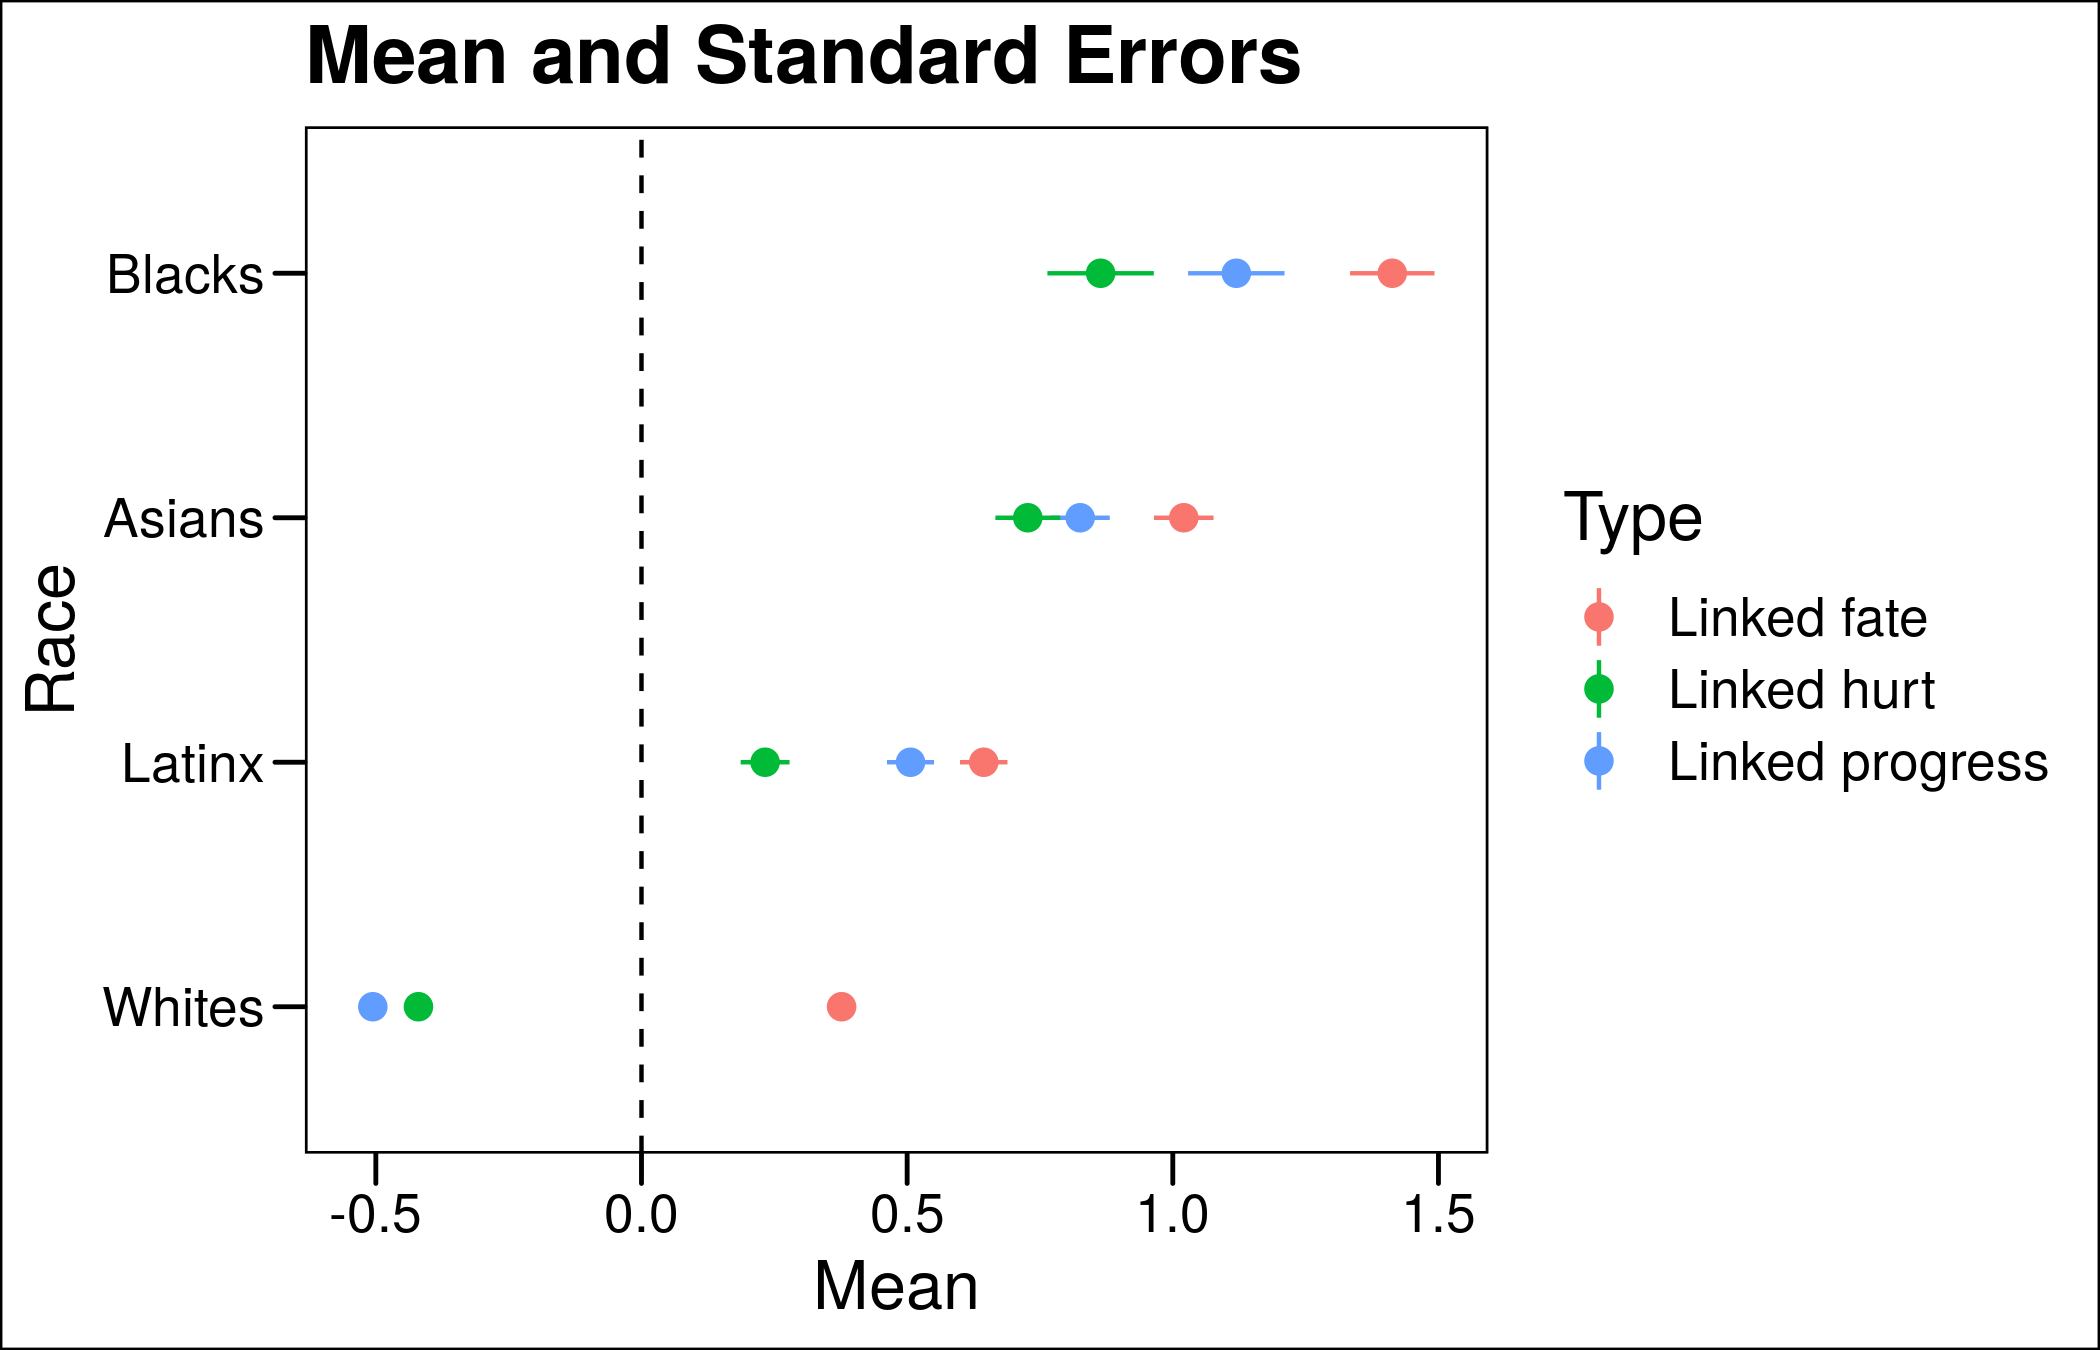
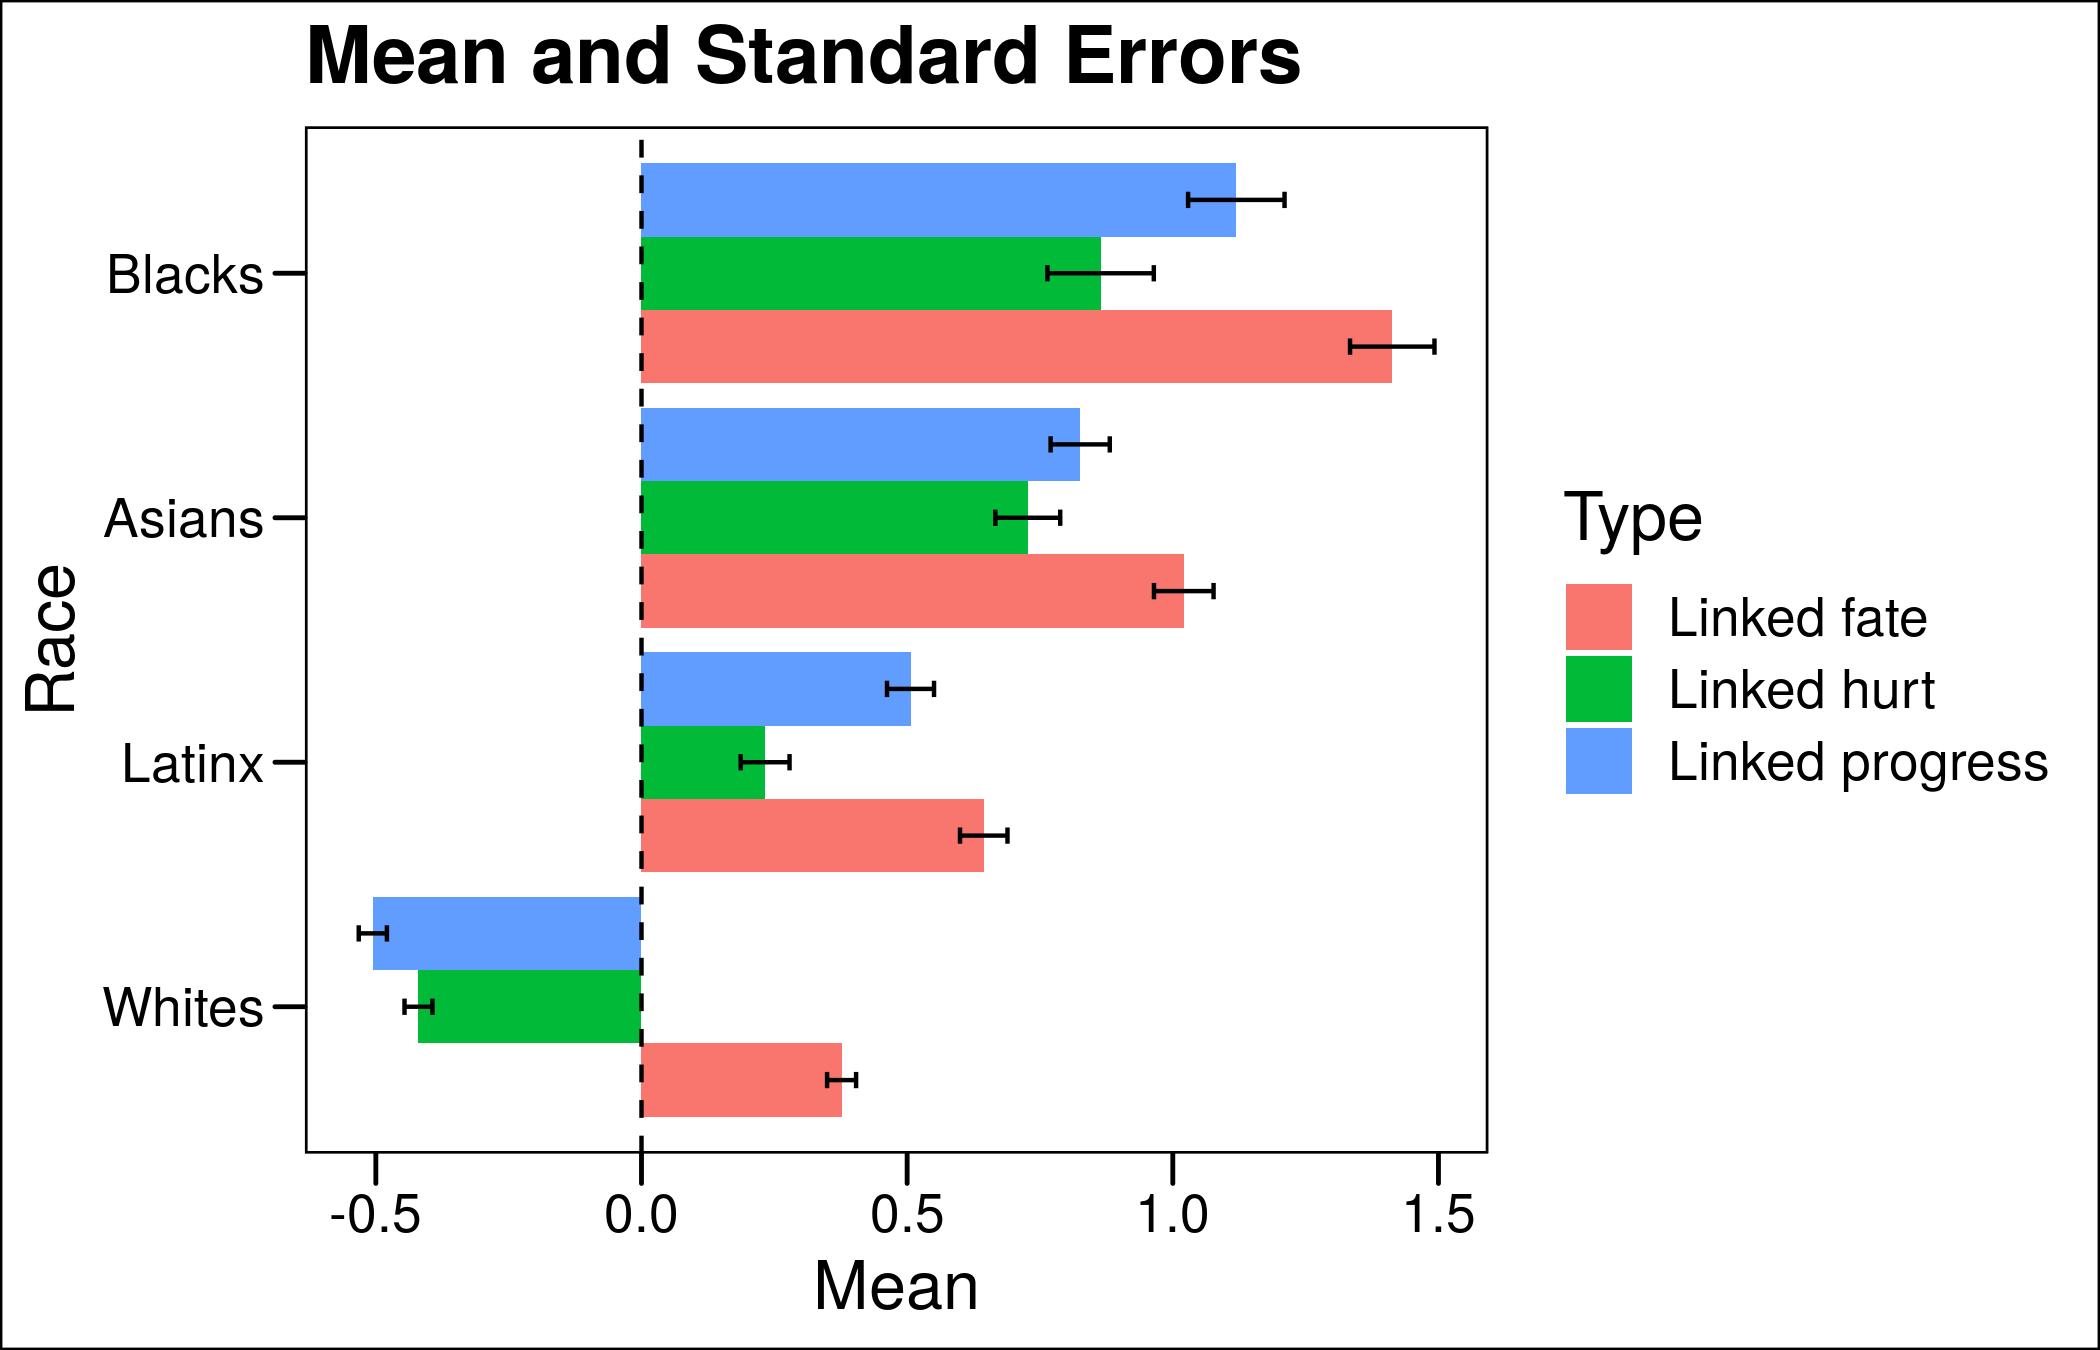
bar plot

Changed region(s): [[0.2786, 0.0933, 0.681, 0.6533], [0.1548, 0.6533, 0.4024, 0.84], [0.7429, 0.4356, 0.8048, 0.5911]]

diff --git a/README.md b/README.md
@@ -53,7 +53,7 @@ In the rest of the document, I state how I have **cleaned**, **analyzed**, and *
 ![](https://github.com/jaeyk/validating-two-linked-fates/blob/master/outputs/descriptive_stat_plot.png)
 Figure 1. Mean and Standard Errors
 
-In Figure 1, Y-axis indicates the average score of responses to linked fate related questions. X-axis indicates different racial groups. Mean describes the central tendency of the responses. The limitation is it does not show how these data points are spread. For that reason, I also included standard errors, which are indicated by the error bars.
+In Figure 1, X-axis indicates the average score of responses to linked fate related questions. Y-axis indicates different racial groups. Mean describes the central tendency of the responses. The limitation is it does not show how these data points are spread. For that reason, I also included standard errors, which are indicated by the error bars.
 
 To begin with, Figure 1 clearly demonstrates using different measure for linked fate yields different level of responses. Overall, the standard linked fate question drew the stronget expressed support for linked fate. Linked progress was on average scored higher than linked hurt across all racial groups including African Americans. It does not mean that Dawson's theory is wrong becuase the data also provides evidence for the presence of linked hurt. What the theory has missed is the importance of linked progress mechanism and its prevalance.
 
@@ -62,7 +62,7 @@ To begin with, Figure 1 clearly demonstrates using different measure for linked 
 ![](https://github.com/jaeyk/validating-two-linked-fates/blob/master/outputs/density_plot.png)
 Figure 2. Descriptive analysis
 
-In Figure 2, X-axix indicates each choice used in the linked fate questions. Y-axis indicats their kernal density estimates (KDE). The smoothed line shows an estimated underlying data distribution. This more detailed look on the data reveals several interesting patterns.
+In Figure 2, X-axix indicates those multi-choices used in the linked fate questions. Y-axis indicats their kernal density estimates (KDE). The smoothed line shows an estimated underlying data distribution. This more detailed look on the data reveals several interesting patterns.
 
 The KDE pattern for the responses to the linked fate question among African American respondents is consistent with the prediction of the black utility heurisics theory. The distribution was left-skewed. It shows an almost unanimous support for the black solidarity.
 
